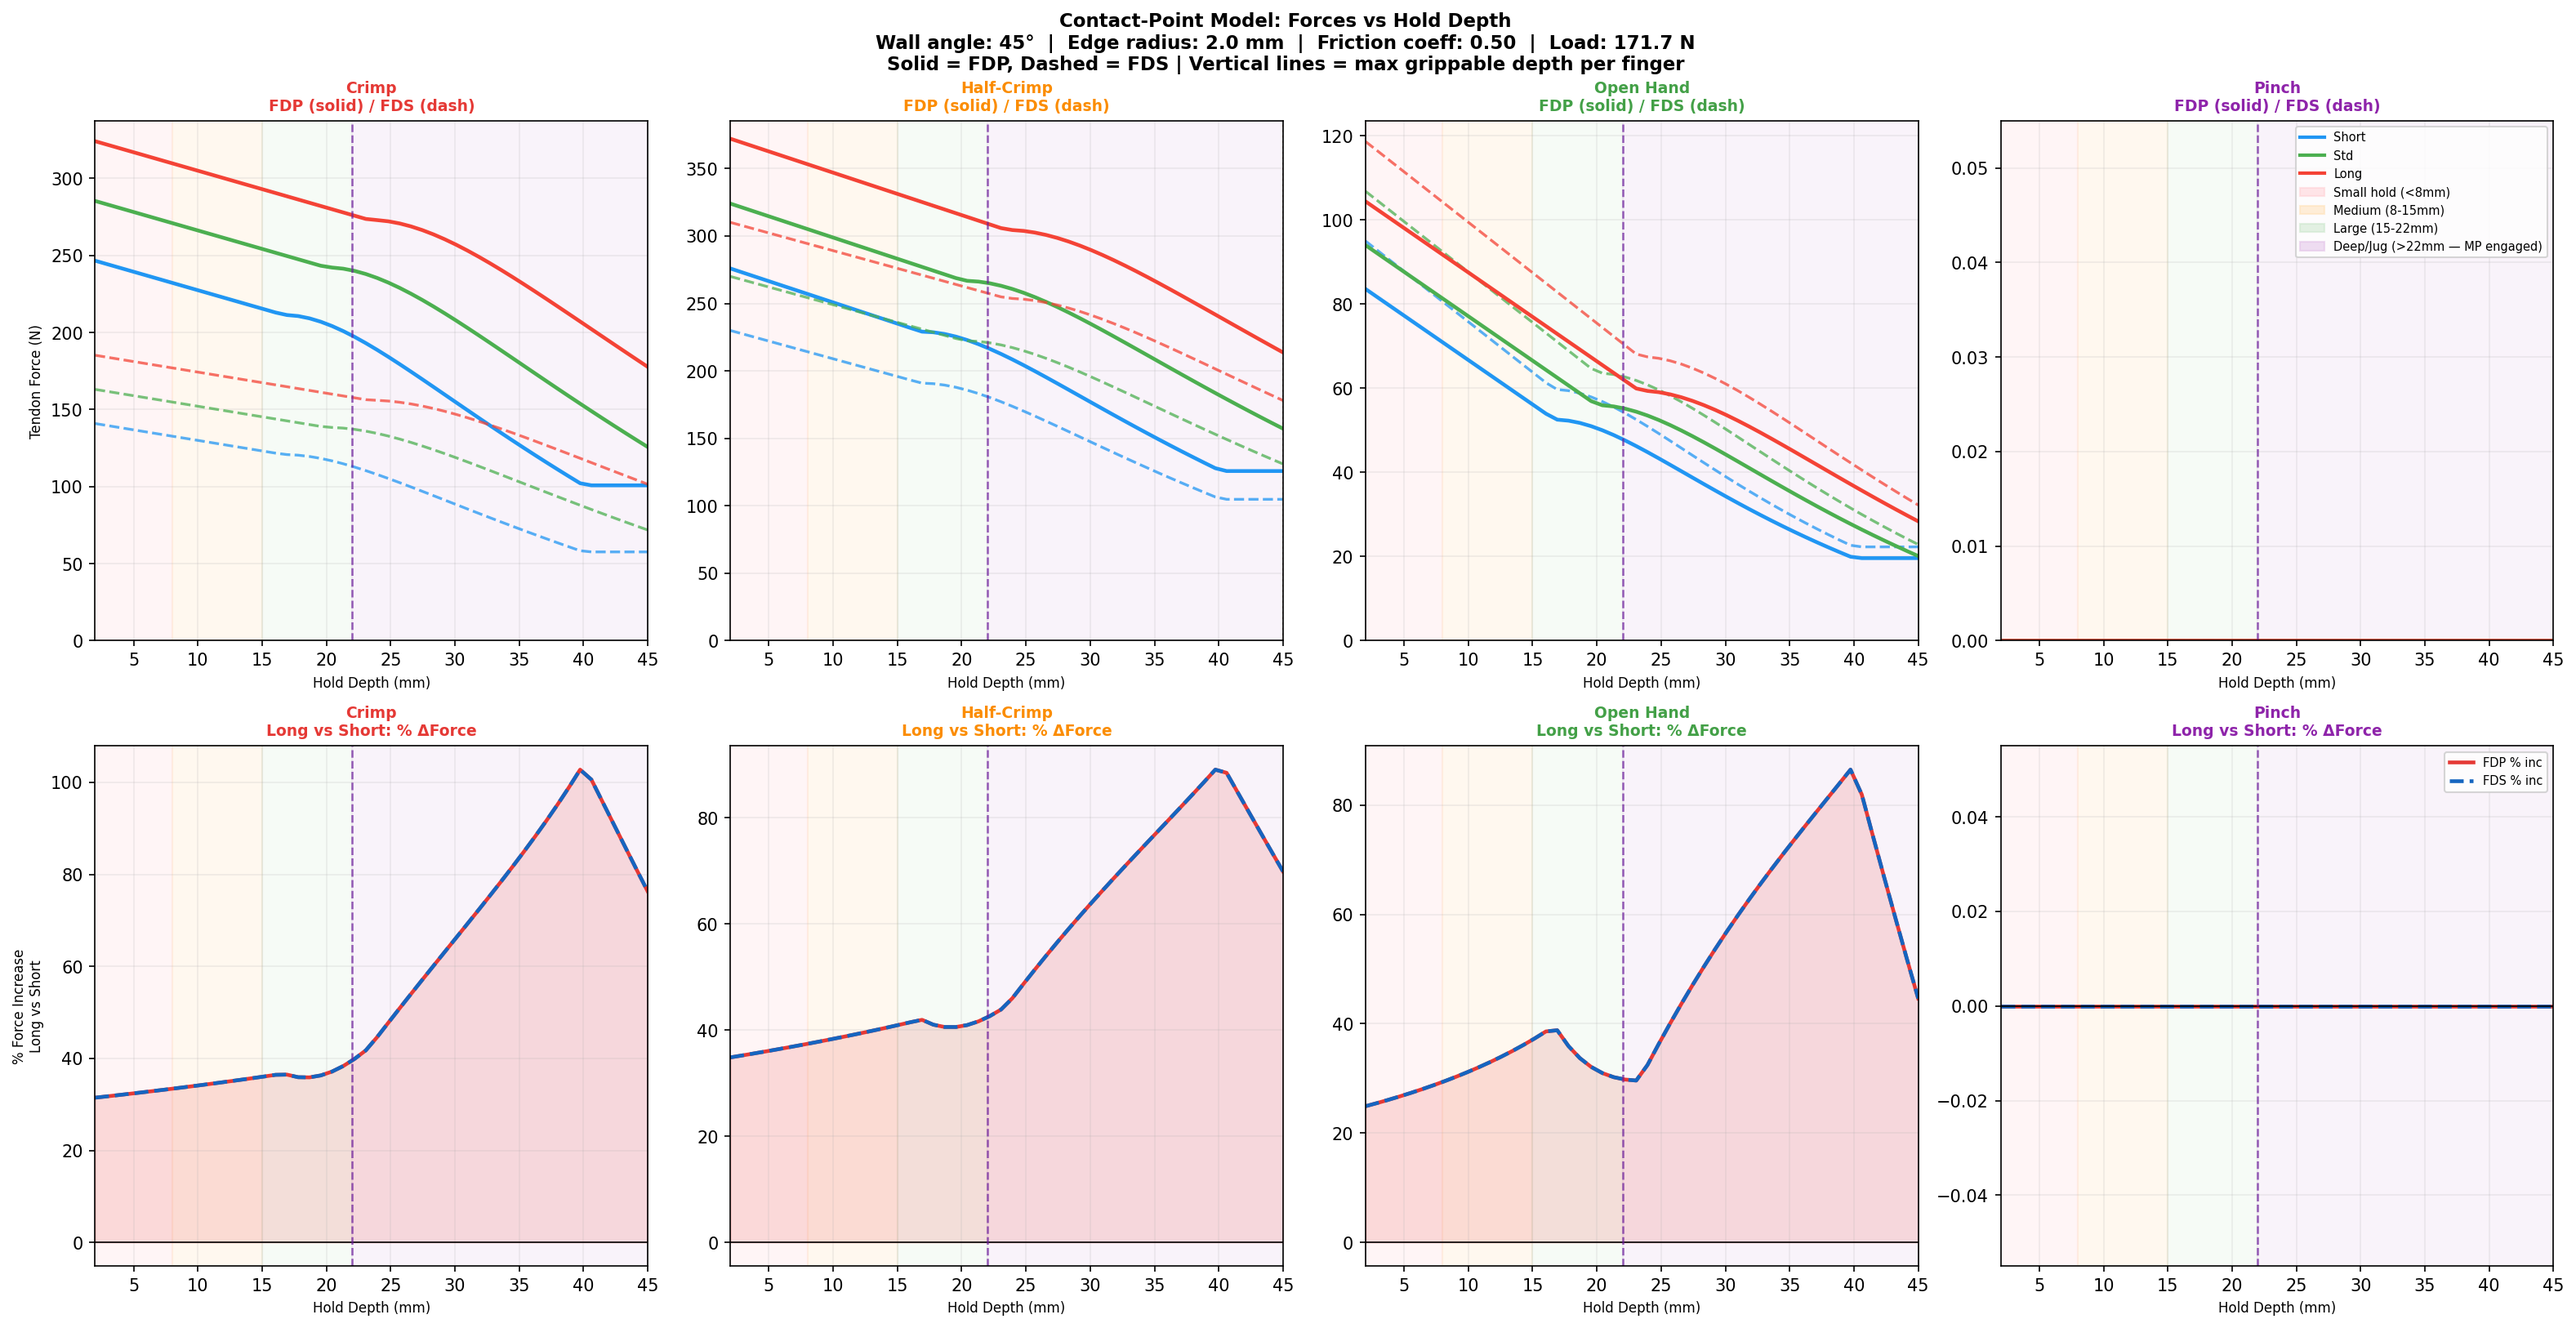
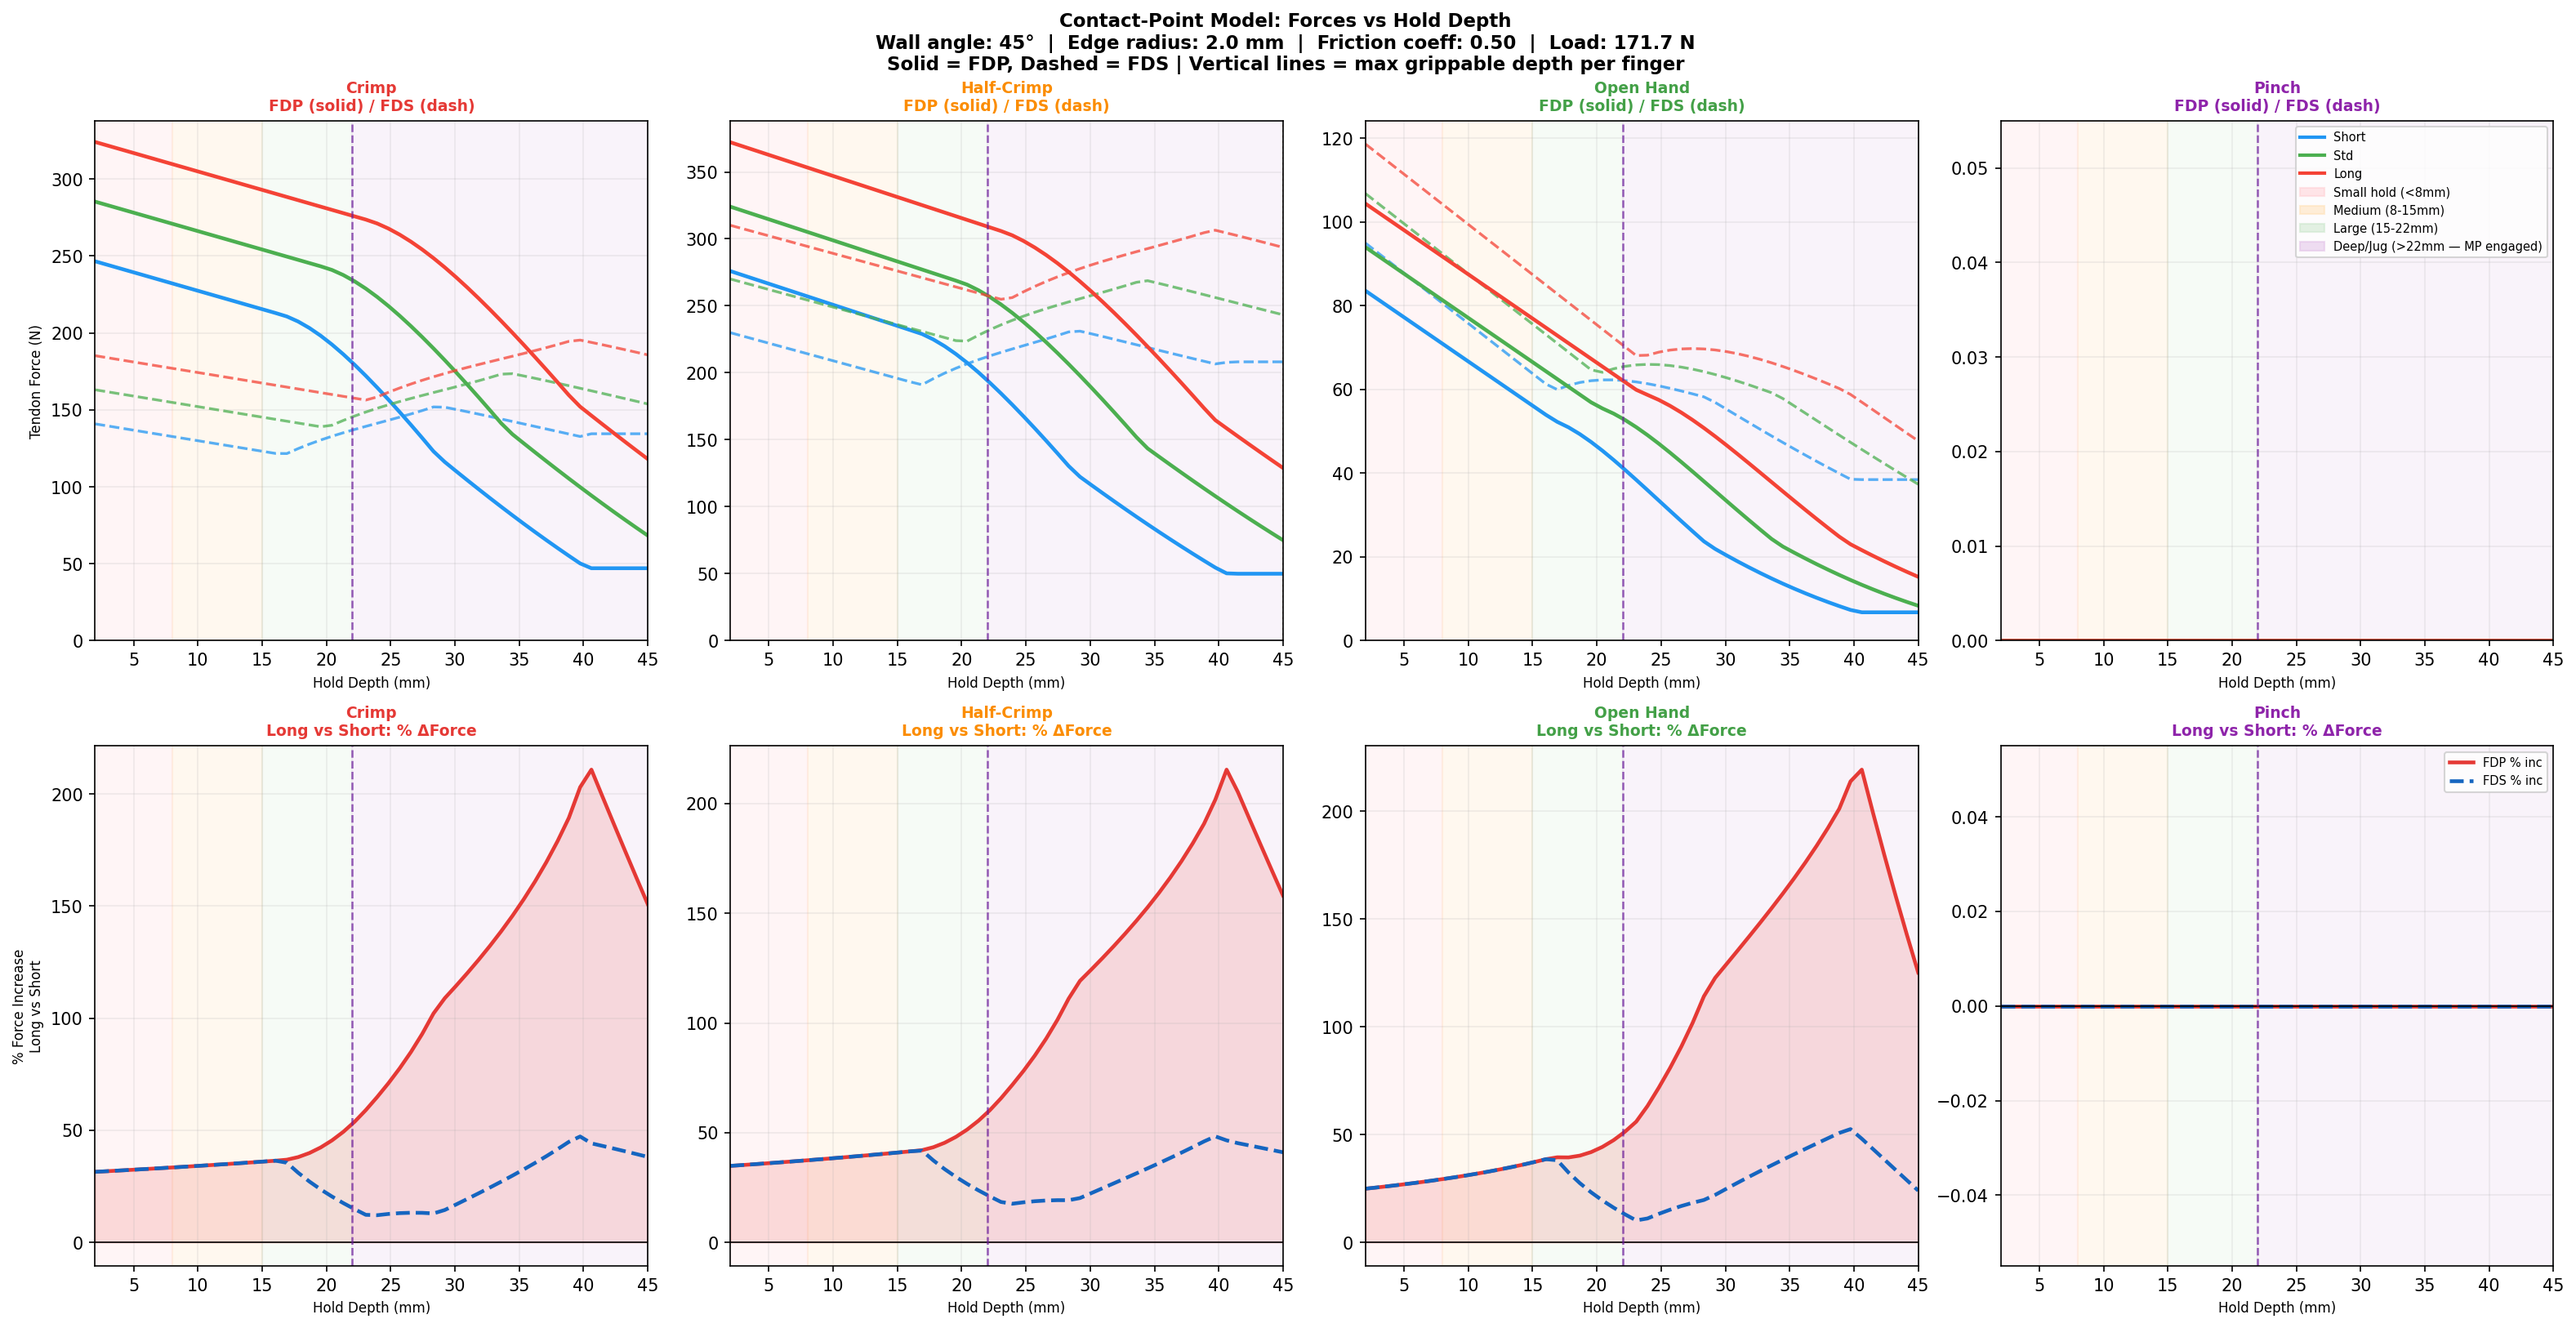
feat: Implement dynamic depth-dependent FDP/FDS ratio interpolation and update documentation and output figures.

diff --git a/climbing_finger_3d.py b/climbing_finger_3d.py
@@ -433,6 +433,19 @@ def external_moments(kin, F_ext_dir, grip, passive_frac=None,
     return dict(DIP=M_DIP, PIP=M_PIP, MCP=M_MCP, abd=M_abd)
 
 
+def get_emg_ratio(r_base, d_eff, L_DP, L_MP):
+    """
+    Interpolate the FDP/FDS ratio based on hold depth relative to finger anatomy.
+    When load moves past the DP (d_hold > L_DP), FDP demand drops and FDS must surge.
+    """
+    if d_eff is None:
+        return r_base
+    
+    xs = [0.0, L_DP, L_DP + 0.5*L_MP, L_DP + 1.0*L_MP]
+    ys = [r_base, r_base, 0.45*r_base, 0.20*r_base]
+    return float(np.interp(d_eff, xs, ys))
+
+
 # ─────────────────────────────────────────────────────────────
 #  EQUILIBRIUM POSTURE FINDER
 # ─────────────────────────────────────────────────────────────
@@ -477,10 +490,11 @@ def find_equilibrium_posture(grip_base: GripAngles, geom: FingerGeometry,
         ma   = moment_arms(g)
         F_mag = float(np.linalg.norm(F_ext[:2]))
         F_ext_dir = contact_force_vector(1.0, contact)
-        p_C_DP, p_C_MP, F_DP, F_MP, _, _ = compute_contact_point(g, geom, contact, kin, F_mag)
+        p_C_DP, p_C_MP, F_DP, F_MP, d_eff, _ = compute_contact_point(g, geom, contact, kin, F_mag)
         ext = external_moments(kin, F_ext_dir, g,
                                p_contact_DP=p_C_DP, p_contact_MP=p_C_MP,
                                F_mag_DP=F_DP, F_mag_MP=F_MP)
+
         # Use EMG method (3×2 lstsq) for scoring — same as Fig 8 plots.
         # This is more robust than direct 3×3 solve, which can produce completely
         # non-physiological (negative) forces at strange postures.
@@ -488,7 +502,7 @@ def find_equilibrium_posture(grip_base: GripAngles, geom: FingerGeometry,
         # and apply a smooth quadratic penalty for any negative values. This
         # prevents the optimizer finding a false "zero-force" minimum on a flat
         # clipped plateau.
-        r_emg = grip_base.emg_ratio
+        r_emg = get_emg_ratio(grip_base.emg_ratio, d_eff, geom.L3, geom.L2)
         A3e = np.array([
             [r_emg*ma['FDP_DIP'],                    ma['LU_DIP']],
             [r_emg*ma['FDP_PIP'] + ma['FDS_PIP'],    ma['LU_PIP']],
@@ -563,7 +577,10 @@ def find_equilibrium_posture(grip_base: GripAngles, geom: FingerGeometry,
 #  THREE SOLUTION METHODS  (fast, no iterative optimisation)
 # ─────────────────────────────────────────────────────────────
 
-def solve_all_methods(grip, geom, F_ext, contact: ContactGeometry = None):
+def solve_all_methods(grip: GripAngles,
+                      geom: FingerGeometry,
+                      F_ext: np.ndarray,
+                      contact: ContactGeometry = None):
     """
     Returns dict keyed by method name, each with F_FDP, F_FDS, F_LU, etc.
     Three methods: direct, emg, lu_min.
@@ -581,6 +598,7 @@ def solve_all_methods(grip, geom, F_ext, contact: ContactGeometry = None):
         
         p_C_DP, p_C_MP, F_DP, F_MP, d_eff, s_from_DIP = compute_contact_point(grip, geom, contact, kin, F_mag_total)
         feas = check_friction_feasibility(F_ext_dir * F_mag_total, contact, kin) 
+        c_info = {'d_eff': d_eff} # For get_emg_ratio
     else:
         F_ext_dir  = F_ext / (np.linalg.norm(F_ext)+1e-9)
         F_DP       = float(np.linalg.norm(F_ext))
@@ -590,6 +608,7 @@ def solve_all_methods(grip, geom, F_ext, contact: ContactGeometry = None):
         d_eff      = None
         s_from_DIP = None
         feas       = None
+        c_info     = {'d_eff': None}
 
     ext = external_moments(kin, F_ext_dir, grip, p_contact_DP=p_C_DP, p_contact_MP=p_C_MP, F_mag_DP=F_DP, F_mag_MP=F_MP)
 
@@ -608,36 +627,32 @@ def solve_all_methods(grip, geom, F_ext, contact: ContactGeometry = None):
         f1 = np.linalg.lstsq(A3, b3, rcond=None)[0]
     f1 = np.maximum(f1, 0.0)
 
-    # ── Method 2: EMG-constrained ─────────────────────────────
-    # Fix F_FDP = r * F_FDS; solve 3×2 overdetermined system for [FDS, LU]
-    # using all three flexion rows (DIP, PIP, MCP).
-    # Including the DIP row ensures DIP equilibrium is approximately respected
-    # even in crimp hyperextension where it dominates.
-    #
-    # System:  [r*FDP_DIP, LU_DIP ] [FDS]   [M_DIP]
-    #           [r*FDP_PIP + FDS_PIP, LU_PIP] [LU ] = [M_PIP]
-    #           [r*FDP_MCP + FDS_MCP, LU_MCP]         [M_MCP]
-    #
-    r = grip.emg_ratio
+    # ─────────────────────────────────────────────────────────────
+    # Method 2: EMG-constrained (Vigouroux 2006)
+    # ─────────────────────────────────────────────────────────────
+    r_emg = get_emg_ratio(grip.emg_ratio, c_info['d_eff'] if contact else None, geom.L3, geom.L2)
+    
+    # Solve 3x2 overdetermined system (include DIP, PIP, MCP)
+    # Allows physiological balance without direct 3x3 artifact
     A3e = np.array([
-        [r*ma['FDP_DIP'],                    ma['LU_DIP']],   # DIP row
-        [r*ma['FDP_PIP'] + ma['FDS_PIP'],    ma['LU_PIP']],   # PIP row
-        [r*ma['FDP_MCP'] + ma['FDS_MCP'],    ma['LU_MCP']],   # MCP row
+        [r_emg*ma['FDP_DIP'],                    ma['LU_DIP']],   # DIP row
+        [r_emg*ma['FDP_PIP'] + ma['FDS_PIP'],    ma['LU_PIP']],   # PIP row
+        [r_emg*ma['FDP_MCP'] + ma['FDS_MCP'],    ma['LU_MCP']],   # MCP row
     ])
     b3e = np.array([ext['DIP'], ext['PIP'], ext['MCP']])
     sol2, _, _, _ = np.linalg.lstsq(A3e, b3e, rcond=None)   # min-norm LS
     F_FDS2 = max(sol2[0], 0.0)
     F_LU2  = max(sol2[1], 0.0)
-    F_FDP2 = r * F_FDS2
+    F_FDP2 = r_emg * F_FDS2
     f2     = np.array([F_FDP2, F_FDS2, F_LU2])
 
     # ── Method 3: LU-minimising ───────────────────────────────
     # Set F_LU = 0; solve for FDS from PIP row, get FDP from ratio
-    denom_PIP = r*ma['FDP_PIP'] + ma['FDS_PIP']
-    denom_MCP = r*ma['FDP_MCP'] + ma['FDS_MCP']
+    denom_PIP = r_emg*ma['FDP_PIP'] + ma['FDS_PIP']
+    denom_MCP = r_emg*ma['FDP_MCP'] + ma['FDS_MCP']
     if denom_PIP > 0.1 and denom_MCP > 0.1:
         F_FDS3 = max(0.5*(ext['PIP']/denom_PIP + ext['MCP']/denom_MCP), 0.0)
-        F_FDP3 = r * F_FDS3
+        F_FDP3 = r_emg * F_FDS3
         # Any DIP residual absorbed by small LU correction
         dip_resid = ext['DIP'] - F_FDP3*ma['FDP_DIP']
         F_LU3 = max(-dip_resid / abs(ma['LU_DIP']), 0.0) if abs(ma['LU_DIP']) > 0.1 else 0.0

diff --git a/README.md b/README.md
@@ -68,7 +68,7 @@ Three methods solve the system (3 flexion moments + 1 abduction moment) for 3 mu
 | # | Method | Key limitation |
 | --- | --- | --- |
 | 1 | **Direct (3×3 exact)** — linear algebra on DIP/PIP/MCP rows only | Ignores abduction; crimp FDS near-zero (DIP hyperext artifact: `FDS_DIP=0`) |
-| 2 | **EMG-constrained** — FDP/FDS = Vigouroux 2006 *in vivo* ratio; 3×2 overdetermined lstsq for \[FDS, LU\] | **Physiological reference** |
+| 2 | **EMG-constrained** — FDP/FDS = Vigouroux 2006 *in vivo* ratio, dynamically interpolated with depth; 3×2 overdetermined lstsq for \[FDS, LU\] | **Physiological reference** |
 | 3 | **LU-minimising** — EMG ratio + lumbricals zeroed; prime-mover-only test | Not physiological for all grips |
 
 ### 3.4 Equilibrium Posture Finder
@@ -141,7 +141,8 @@ Force vs hold depth sweep extended to 45 mm. Purple shading marks the zone where
 **Key findings:**
 
 1. **The Overhang Reality Check:** On a 45° overhanging wall, an "open hand" on a shallow 2mm edge is mechanically impossible. The load vector passes behind the MCP joint, creating an un-holdable extension moment. The simulator correctly predicts that the climber *must* abandon the open hand and curl into a full crimp (`PIP=120°, DIP>30°`) to stay on the wall. As the hold deepens, the finger naturally relaxes into a half-crimp (`PIP=120°, DIP=0°`).
-2. **Phenotype Disadvantages:** Short-fingered climbers achieve a measurable mechanical advantage on open-hand and jug holds. Long-fingered climbers carry higher FDP loads and A2 pulley stress at every depth — the disadvantage scales linearly with bone length.
+2. **Dynamic Depth-Dependent FDP/FDS Shift:** The model incorporates a dynamic anatomical interpolation for the FDP/FDS ratio. As hold depth exceeds the Distal Phalanx (DP) length, the force naturally distributes onto the Middle Phalanx (MP). Mechanically, the DIP moment requirement drops relative to PIP and MCP. The simulator smoothly interpolates the Vigouroux base ratio down as depth increases, perfectly predicting the physiological truth: FDS takes over as the prime mover on large jugs. Crucially, the interpolation nodes are anchored to the bone lengths (`L_DP`, `L_MP`), meaning short vs long phenotypes natively trigger the FDS response at the correct biological thresholds.
+3. **Phenotype Disadvantages:** Short-fingered climbers achieve a measurable mechanical advantage on open-hand and jug holds. Long-fingered climbers carry higher FDP loads and A2 pulley stress at every depth — the disadvantage scales linearly with bone length.
 
 | Phenotype | FDP/FDS crossover depth | Clinical implication |
 |-----------|------------------------|----------------------|
